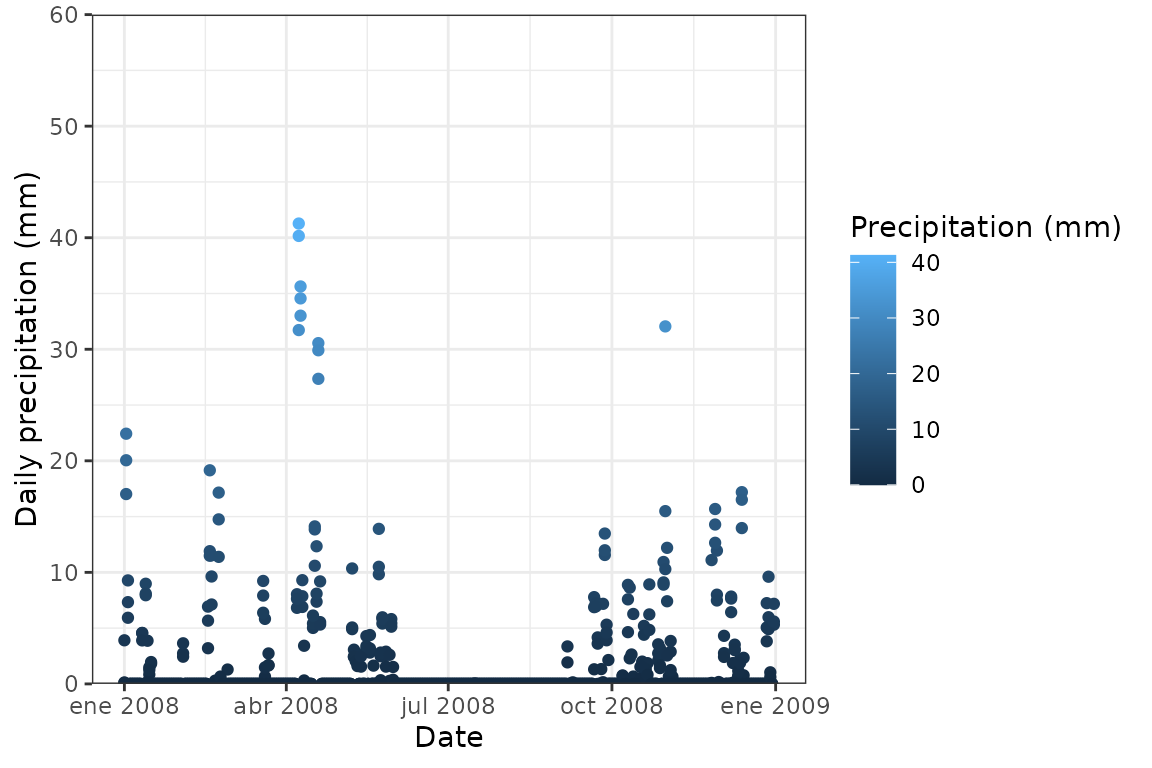
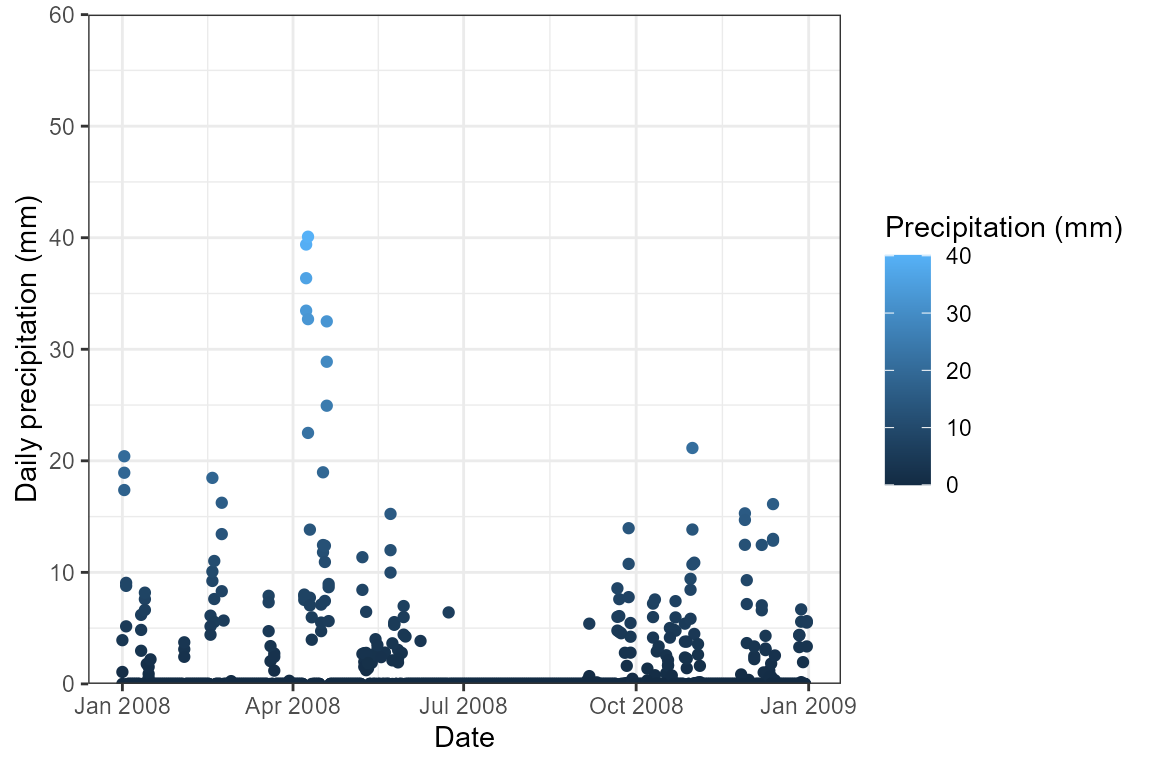
tbl_df inclusion

diff --git a/docs/articles/points-df-mat-sf.html b/docs/articles/points-df-mat-sf.html
@@ -141,7 +141,7 @@ temperature <code>Tmax</code>).</p>
 <div class="sourceCode" id="cb2"><pre class="downlit sourceCode r">
 <code class="sourceCode R"><span></span>
 <span><span class="fu"><a href="https://rdrr.io/r/base/Sys.time.html" class="external-link">Sys.time</a></span><span class="op">(</span><span class="op">)</span> <span class="co"># to know how much it takes to download</span></span>
-<span><span class="co">## [1] "2022-10-27 21:48:33 CEST"</span></span>
+<span><span class="co">## [1] "2022-12-22 12:00:19 CET"</span></span>
 <span></span>
 <span><span class="va">daily</span> <span class="op">&lt;-</span> <span class="fu"><a href="../reference/get_daily_climate.html">get_daily_climate</a></span><span class="op">(</span></span>
 <span>  coords <span class="op">=</span> <span class="va">coords</span>, </span>
@@ -149,7 +149,7 @@ temperature <code>Tmax</code>).</p>
 <span>  climatic_var <span class="op">=</span> <span class="fu"><a href="https://rdrr.io/r/base/c.html" class="external-link">c</a></span><span class="op">(</span><span class="st">"Prcp"</span>,<span class="st">"Tmin"</span>,<span class="st">"Tmax"</span><span class="op">)</span><span class="op">)</span></span>
 <span></span>
 <span><span class="fu"><a href="https://rdrr.io/r/base/Sys.time.html" class="external-link">Sys.time</a></span><span class="op">(</span><span class="op">)</span></span>
-<span><span class="co">## [1] "2022-10-27 21:50:57 CEST"</span></span>
+<span><span class="co">## [1] "2022-12-22 12:02:29 CET"</span></span>
 <span></span>
 <span><span class="fu">kable</span><span class="op">(</span><span class="fu"><a href="https://rdrr.io/pkg/terra/man/headtail.html" class="external-link">head</a></span><span class="op">(</span><span class="va">daily</span><span class="op">)</span><span class="op">)</span></span></code></pre></div>
 <table class="table">
@@ -165,57 +165,57 @@ temperature <code>Tmax</code>).</p>
 <tbody>
 <tr class="odd">
 <td align="right">1</td>
-<td align="right">-5.056158</td>
-<td align="right">37.05587</td>
+<td align="right">-5.596845</td>
+<td align="right">37.53894</td>
 <td align="left">2008-01-01</td>
-<td align="right">0.13</td>
-<td align="right">3.69</td>
-<td align="right">13.39</td>
+<td align="right">3.92</td>
+<td align="right">2.94</td>
+<td align="right">14.38</td>
 </tr>
 <tr class="even">
 <td align="right">1</td>
-<td align="right">-5.056158</td>
-<td align="right">37.05587</td>
+<td align="right">-5.596845</td>
+<td align="right">37.53894</td>
 <td align="left">2008-01-02</td>
-<td align="right">17.02</td>
-<td align="right">6.73</td>
-<td align="right">12.73</td>
+<td align="right">20.41</td>
+<td align="right">8.35</td>
+<td align="right">15.83</td>
 </tr>
 <tr class="odd">
 <td align="right">1</td>
-<td align="right">-5.056158</td>
-<td align="right">37.05587</td>
+<td align="right">-5.596845</td>
+<td align="right">37.53894</td>
 <td align="left">2008-01-03</td>
-<td align="right">9.28</td>
-<td align="right">5.44</td>
-<td align="right">11.70</td>
+<td align="right">5.16</td>
+<td align="right">7.64</td>
+<td align="right">14.69</td>
 </tr>
 <tr class="even">
 <td align="right">1</td>
-<td align="right">-5.056158</td>
-<td align="right">37.05587</td>
+<td align="right">-5.596845</td>
+<td align="right">37.53894</td>
 <td align="left">2008-01-04</td>
 <td align="right">0.00</td>
-<td align="right">3.13</td>
-<td align="right">10.74</td>
+<td align="right">5.55</td>
+<td align="right">14.44</td>
 </tr>
 <tr class="odd">
 <td align="right">1</td>
-<td align="right">-5.056158</td>
-<td align="right">37.05587</td>
+<td align="right">-5.596845</td>
+<td align="right">37.53894</td>
 <td align="left">2008-01-05</td>
 <td align="right">0.00</td>
-<td align="right">3.17</td>
-<td align="right">13.01</td>
+<td align="right">5.48</td>
+<td align="right">14.80</td>
 </tr>
 <tr class="even">
 <td align="right">1</td>
-<td align="right">-5.056158</td>
-<td align="right">37.05587</td>
+<td align="right">-5.596845</td>
+<td align="right">37.53894</td>
 <td align="left">2008-01-06</td>
 <td align="right">0.00</td>
-<td align="right">9.17</td>
-<td align="right">15.45</td>
+<td align="right">11.25</td>
+<td align="right">16.09</td>
 </tr>
 </tbody>
 </table>
@@ -282,7 +282,7 @@ matrices!</p>
 <span><span class="va">coords_mat</span> <span class="op">&lt;-</span> <span class="fu"><a href="https://rdrr.io/pkg/terra/man/coerce.html" class="external-link">as.matrix</a></span><span class="op">(</span><span class="va">coords</span><span class="op">)</span></span>
 <span></span>
 <span><span class="fu"><a href="https://rdrr.io/r/base/Sys.time.html" class="external-link">Sys.time</a></span><span class="op">(</span><span class="op">)</span></span>
-<span><span class="co">## [1] "2022-10-27 21:50:58 CEST"</span></span>
+<span><span class="co">## [1] "2022-12-22 12:02:36 CET"</span></span>
 <span></span>
 <span><span class="va">mat_prcp</span> <span class="op">&lt;-</span> <span class="fu"><a href="../reference/get_daily_climate.html">get_daily_climate</a></span><span class="op">(</span> </span>
 <span>  coords <span class="op">=</span> <span class="va">coords_mat</span>, </span>
@@ -291,7 +291,7 @@ matrices!</p>
 <span><span class="op">)</span></span>
 <span></span>
 <span><span class="fu"><a href="https://rdrr.io/r/base/Sys.time.html" class="external-link">Sys.time</a></span><span class="op">(</span><span class="op">)</span></span>
-<span><span class="co">## [1] "2022-10-27 21:51:07 CEST"</span></span>
+<span><span class="co">## [1] "2022-12-22 12:02:43 CET"</span></span>
 <span></span>
 <span><span class="fu">kable</span><span class="op">(</span><span class="fu"><a href="https://rdrr.io/pkg/terra/man/headtail.html" class="external-link">head</a></span><span class="op">(</span><span class="va">mat_prcp</span><span class="op">)</span><span class="op">)</span></span></code></pre></div>
 <table class="table">
@@ -305,43 +305,43 @@ matrices!</p>
 <tbody>
 <tr class="odd">
 <td align="right">1</td>
-<td align="right">-5.056158</td>
-<td align="right">37.05587</td>
+<td align="right">-5.596845</td>
+<td align="right">37.53894</td>
 <td align="left">2008-01-01</td>
-<td align="right">0.13</td>
+<td align="right">3.92</td>
 </tr>
 <tr class="even">
 <td align="right">1</td>
-<td align="right">-5.056158</td>
-<td align="right">37.05587</td>
+<td align="right">-5.596845</td>
+<td align="right">37.53894</td>
 <td align="left">2008-01-02</td>
-<td align="right">17.02</td>
+<td align="right">20.41</td>
 </tr>
 <tr class="odd">
 <td align="right">1</td>
-<td align="right">-5.056158</td>
-<td align="right">37.05587</td>
+<td align="right">-5.596845</td>
+<td align="right">37.53894</td>
 <td align="left">2008-01-03</td>
-<td align="right">9.28</td>
+<td align="right">5.16</td>
 </tr>
 <tr class="even">
 <td align="right">1</td>
-<td align="right">-5.056158</td>
-<td align="right">37.05587</td>
+<td align="right">-5.596845</td>
+<td align="right">37.53894</td>
 <td align="left">2008-01-04</td>
 <td align="right">0.00</td>
 </tr>
 <tr class="odd">
 <td align="right">1</td>
-<td align="right">-5.056158</td>
-<td align="right">37.05587</td>
+<td align="right">-5.596845</td>
+<td align="right">37.53894</td>
 <td align="left">2008-01-05</td>
 <td align="right">0.00</td>
 </tr>
 <tr class="even">
 <td align="right">1</td>
-<td align="right">-5.056158</td>
-<td align="right">37.05587</td>
+<td align="right">-5.596845</td>
+<td align="right">37.53894</td>
 <td align="left">2008-01-06</td>
 <td align="right">0.00</td>
 </tr>
@@ -437,7 +437,7 @@ vignette</a> if you need to extract the data of a complete area.</p>
 
 <div class="pkgdown">
   <p></p>
-<p>Site built with <a href="https://pkgdown.r-lib.org/" class="external-link">pkgdown</a> 2.0.6.</p>
+<p>Site built with <a href="https://pkgdown.r-lib.org/" class="external-link">pkgdown</a> 2.0.7.</p>
 </div>
 
       </footer>

diff --git a/docs/articles/polygons-raster.html b/docs/articles/polygons-raster.html
@@ -114,7 +114,7 @@ the polygons of interest in a <code>sf</code> object.</p>
 <span><span class="va">coords_t</span> <span class="op">&lt;-</span> <span class="fu"><a href="https://rdrr.io/pkg/terra/man/vect.html" class="external-link">vect</a></span><span class="op">(</span><span class="st">"POLYGON ((-4.5 41, -4.5 40.5, -5 40.5, -5 41))"</span><span class="op">)</span></span>
 <span></span>
 <span><span class="fu"><a href="https://rdrr.io/r/base/Sys.time.html" class="external-link">Sys.time</a></span><span class="op">(</span><span class="op">)</span> <span class="co"># to know how much it takes to download</span></span>
-<span><span class="co">## [1] "2022-10-27 21:56:58 CEST"</span></span>
+<span><span class="co">## [1] "2022-12-22 12:03:10 CET"</span></span>
 <span></span>
 <span><span class="va">df_tmax</span> <span class="op">&lt;-</span> <span class="fu"><a href="../reference/get_daily_climate.html">get_daily_climate</a></span><span class="op">(</span></span>
 <span>  <span class="va">coords_t</span>,</span>
@@ -124,7 +124,7 @@ the polygons of interest in a <code>sf</code> object.</p>
 <span>  <span class="op">)</span></span>
 <span></span>
 <span><span class="fu"><a href="https://rdrr.io/r/base/Sys.time.html" class="external-link">Sys.time</a></span><span class="op">(</span><span class="op">)</span></span>
-<span><span class="co">## [1] "2022-10-27 21:57:11 CEST"</span></span>
+<span><span class="co">## [1] "2022-12-22 12:03:28 CET"</span></span>
 <span></span>
 <span><span class="fu"><a href="https://rdrr.io/pkg/terra/man/headtail.html" class="external-link">head</a></span><span class="op">(</span><span class="va">df_tmax</span><span class="op">)</span></span>
 <span><span class="co">##   ID_coords       lon      lat       date  Tmax</span></span>
@@ -168,7 +168,7 @@ the polygons of interest in a <code>sf</code> object.</p>
 <div class="sourceCode" id="cb4"><pre class="downlit sourceCode r">
 <code class="sourceCode R"><span></span>
 <span><span class="fu"><a href="https://rdrr.io/r/base/Sys.time.html" class="external-link">Sys.time</a></span><span class="op">(</span><span class="op">)</span></span>
-<span><span class="co">## [1] "2022-10-27 21:57:13 CEST"</span></span>
+<span><span class="co">## [1] "2022-12-22 12:03:43 CET"</span></span>
 <span></span>
 <span><span class="va">ras_tmax</span> <span class="op">&lt;-</span> <span class="fu"><a href="../reference/get_daily_climate.html">get_daily_climate</a></span><span class="op">(</span></span>
 <span>  <span class="va">coords_t</span>,</span>
@@ -178,7 +178,7 @@ the polygons of interest in a <code>sf</code> object.</p>
 <span>  <span class="op">)</span></span>
 <span></span>
 <span><span class="fu"><a href="https://rdrr.io/r/base/Sys.time.html" class="external-link">Sys.time</a></span><span class="op">(</span><span class="op">)</span></span>
-<span><span class="co">## [1] "2022-10-27 21:57:26 CEST"</span></span>
+<span><span class="co">## [1] "2022-12-22 12:04:01 CET"</span></span>
 <span></span>
 <span><span class="va">ras_tmax</span></span>
 <span><span class="co">## class       : SpatRaster </span></span>
@@ -186,7 +186,7 @@ the polygons of interest in a <code>sf</code> object.</p>
 <span><span class="co">## resolution  : 0.008333333, 0.008333333  (x, y)</span></span>
 <span><span class="co">## extent      : -5, -4.5, 40.5, 41  (xmin, xmax, ymin, ymax)</span></span>
 <span><span class="co">## coord. ref. : lon/lat WGS 84 (EPSG:4326) </span></span>
-<span><span class="co">## source      : memory </span></span>
+<span><span class="co">## source(s)   : memory</span></span>
 <span><span class="co">## names       : 2012-01-01, 2012-08-01 </span></span>
 <span><span class="co">## min values  :       9.90,      26.81 </span></span>
 <span><span class="co">## max values  :      15.34,      32.31</span></span>
@@ -222,7 +222,7 @@ vignette</a> if you need to extract the data for specific points.</p>
 
 <div class="pkgdown">
   <p></p>
-<p>Site built with <a href="https://pkgdown.r-lib.org/" class="external-link">pkgdown</a> 2.0.6.</p>
+<p>Site built with <a href="https://pkgdown.r-lib.org/" class="external-link">pkgdown</a> 2.0.7.</p>
 </div>
 
       </footer>

diff --git a/docs/articles/climatic-indices.html b/docs/articles/climatic-indices.html
@@ -130,7 +130,7 @@ base R:</p>
 <span>  <span class="fu"><a href="https://dplyr.tidyverse.org/reference/summarise.html" class="external-link">summarise</a></span><span class="op">(</span>Tmin.site <span class="op">=</span> <span class="fu"><a href="https://rdrr.io/pkg/terra/man/summarize-generics.html" class="external-link">mean</a></span><span class="op">(</span><span class="va">Tmin</span><span class="op">)</span>,</span>
 <span>            Tmean.site <span class="op">=</span> <span class="fu"><a href="https://rdrr.io/pkg/terra/man/summarize-generics.html" class="external-link">mean</a></span><span class="op">(</span><span class="va">Tmean</span><span class="op">)</span>,</span>
 <span>            Tmax.site <span class="op">=</span> <span class="fu"><a href="https://rdrr.io/pkg/terra/man/summarize-generics.html" class="external-link">mean</a></span><span class="op">(</span><span class="va">Tmax</span><span class="op">)</span><span class="op">)</span></span>
-<span><span class="co">## <span style="color: #949494;"># A tibble: 1 × 4</span></span></span>
+<span><span class="co">## <span style="color: #949494;"># A tibble: 1 x 4</span></span></span>
 <span><span class="co">##   ID_coords Tmin.site Tmean.site Tmax.site</span></span>
 <span><span class="co">##       <span style="color: #949494; font-style: italic;">&lt;int&gt;</span>     <span style="color: #949494; font-style: italic;">&lt;dbl&gt;</span>      <span style="color: #949494; font-style: italic;">&lt;dbl&gt;</span>     <span style="color: #949494; font-style: italic;">&lt;dbl&gt;</span></span></span>
 <span><span class="co">## <span style="color: #BCBCBC;">1</span>         1      11.9       18.4      24.9</span></span>
@@ -766,7 +766,7 @@ region.</p>
 
 <div class="pkgdown">
   <p></p>
-<p>Site built with <a href="https://pkgdown.r-lib.org/" class="external-link">pkgdown</a> 2.0.6.</p>
+<p>Site built with <a href="https://pkgdown.r-lib.org/" class="external-link">pkgdown</a> 2.0.7.</p>
 </div>
 
       </footer>

diff --git a/docs/reference/get_daily_climate.html b/docs/reference/get_daily_climate.html
@@ -186,7 +186,7 @@ International Journal of Climatology 36: 1444–1458.</p>
 </div>
 
 <div class="pkgdown">
-  <p></p><p>Site built with <a href="https://pkgdown.r-lib.org/" class="external-link">pkgdown</a> 2.0.6.</p>
+  <p></p><p>Site built with <a href="https://pkgdown.r-lib.org/" class="external-link">pkgdown</a> 2.0.7.</p>
 </div>
 
       </footer></div>

diff --git a/docs/reference/get_daily_climate_single.html b/docs/reference/get_daily_climate_single.html
@@ -179,7 +179,7 @@ International Journal of Climatology 36: 1444–1458.</p>
 </div>
 
 <div class="pkgdown">
-  <p></p><p>Site built with <a href="https://pkgdown.r-lib.org/" class="external-link">pkgdown</a> 2.0.6.</p>
+  <p></p><p>Site built with <a href="https://pkgdown.r-lib.org/" class="external-link">pkgdown</a> 2.0.7.</p>
 </div>
 
       </footer></div>

diff --git a/docs/404.html b/docs/404.html
@@ -106,7 +106,7 @@ Content not found. Please use links in the navbar.
 
 <div class="pkgdown">
   <p></p>
-<p>Site built with <a href="https://pkgdown.r-lib.org/" class="external-link">pkgdown</a> 2.0.6.</p>
+<p>Site built with <a href="https://pkgdown.r-lib.org/" class="external-link">pkgdown</a> 2.0.7.</p>
 </div>
 
       </footer>

diff --git a/docs/LICENSE.html b/docs/LICENSE.html
@@ -274,7 +274,7 @@
 </div>
 
 <div class="pkgdown">
-  <p></p><p>Site built with <a href="https://pkgdown.r-lib.org/" class="external-link">pkgdown</a> 2.0.6.</p>
+  <p></p><p>Site built with <a href="https://pkgdown.r-lib.org/" class="external-link">pkgdown</a> 2.0.7.</p>
 </div>
 
       </footer></div>

diff --git a/docs/authors.html b/docs/authors.html
@@ -137,7 +137,7 @@
 </div>
 
 <div class="pkgdown">
-  <p></p><p>Site built with <a href="https://pkgdown.r-lib.org/" class="external-link">pkgdown</a> 2.0.6.</p>
+  <p></p><p>Site built with <a href="https://pkgdown.r-lib.org/" class="external-link">pkgdown</a> 2.0.7.</p>
 </div>
 
       </footer></div>

diff --git a/docs/news/index.html b/docs/news/index.html
@@ -101,7 +101,7 @@
 </div>
 
 <div class="pkgdown">
-  <p></p><p>Site built with <a href="https://pkgdown.r-lib.org/" class="external-link">pkgdown</a> 2.0.6.</p>
+  <p></p><p>Site built with <a href="https://pkgdown.r-lib.org/" class="external-link">pkgdown</a> 2.0.7.</p>
 </div>
 
       </footer></div>

diff --git a/docs/reference/check_server.html b/docs/reference/check_server.html
@@ -108,7 +108,7 @@
 </div>
 
 <div class="pkgdown">
-  <p></p><p>Site built with <a href="https://pkgdown.r-lib.org/" class="external-link">pkgdown</a> 2.0.6.</p>
+  <p></p><p>Site built with <a href="https://pkgdown.r-lib.org/" class="external-link">pkgdown</a> 2.0.7.</p>
 </div>
 
       </footer></div>

diff --git a/docs/articles/index.html b/docs/articles/index.html
@@ -82,7 +82,7 @@
 </div>
 
 <div class="pkgdown">
-  <p></p><p>Site built with <a href="https://pkgdown.r-lib.org/" class="external-link">pkgdown</a> 2.0.6.</p>
+  <p></p><p>Site built with <a href="https://pkgdown.r-lib.org/" class="external-link">pkgdown</a> 2.0.7.</p>
 </div>
 
       </footer></div>

diff --git a/docs/reference/easyclimate-package.html b/docs/reference/easyclimate-package.html
@@ -98,7 +98,7 @@
 </div>
 
 <div class="pkgdown">
-  <p></p><p>Site built with <a href="https://pkgdown.r-lib.org/" class="external-link">pkgdown</a> 2.0.6.</p>
+  <p></p><p>Site built with <a href="https://pkgdown.r-lib.org/" class="external-link">pkgdown</a> 2.0.7.</p>
 </div>
 
       </footer></div>
